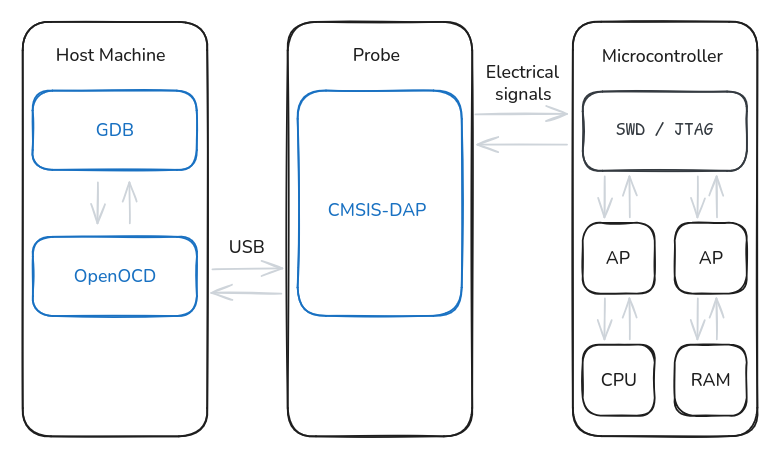
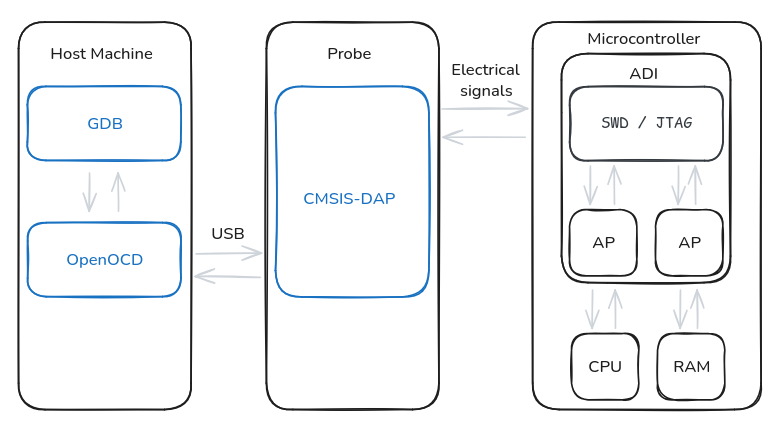
fixes Mark

diff --git a/Chapters/experiments.tex b/Chapters/experiments.tex
@@ -1,3 +1,68 @@
+\section{Metrics description}
+
+Since there are several candidates for the implementation of the probe, we will define a set of metrics to choose the best one. Our set will include both quantitative and qualitative metrics, chosen based on the goal of the project, which is to implement a solution used throughout the educational process. While the values of the quantitative metrics will come directly from the tests and measurements, for qualitative metrics each of the team members will decide on a score from 1 to 5 and the average of those will be used in further considerations.
+
+\begin{table}[!ht]
+  \def\arraystretch{1.3}
+  \begin{center}
+    \caption{Comparison Summary of Probe Implementation Candidates}
+    \label{tab:probe_comparison}
+    \begin{tabular}{|l|c|c|c|}
+      \hline
+      \textbf{Metric} & \textbf{Description} \\
+      \hline
+      \hline
+      \multicolumn{4}{|l|}{\textit{Quantitative Metrics}} \\
+      \hline
+      Price of materials & The price of the plastic or other materials used for the casing, which would fit the TKJHAT and the probe together, as well as the price of the additional microcontrollers, boards, and wires used in the design. Since tens of debugger units are required by the course, the price of each one is a significant detail. \\
+      \hline
+      Time to produce & 15 min \\
+      \hline
+      Size of addition (cm) & 5 \\
+      \hline
+      \hline
+      \hline
+      \multicolumn{4}{|l|}{\textit{Qualitative Metrics (Scores 1--5)}} \\
+      \hline
+      Maintained & 5.0 \\
+      \hline
+      Beginner-friendly & 3.3 \\
+      \hline
+      Comfort of use & 4.0 \\
+      \hline
+      \hline
+    \end{tabular}
+    \vspace{6pt}
+  \end{center}
+\end{table}
+
+\subsection{Quantitative metrics}
+
+The first metric considered is the \textbf{price of the hardware}. That is,  
+
+Next factor we will consider is the \textbf{time to produce} the probe, which includes the printing time of the case for the given probe and the time for soldering and other assembling activities.   
+
+The third quantative metric is the \textbf{physical size} of the final result. That is the size of the casing together with the TKJHAT and the probe. We will also consider the virtual size as a separate metric. It can be refered as \textbf{debug overhead} metric and it estimates the load on the CPU, memory and time consumption added by the debugger. While it might be one the most crucial metrics when working on big and complicated projects, it only takes secondary position in our research, since most of the projects at the entry level course are quite simple and compact.
+
+
+
+    Slowdown Factor: Often measured in production debugging, this is the ratio of execution time with the debugger active vs. inactive (e.g., a "10x–100x slowdown" in intensive debugging scenarios).
+
+    Memory Access Speed: The speed at which a debugger reads/writes data to the target system, crucial for embedded processors.
+
+    Breakpoint Latency: Time taken to halt execution when a breakpoint is hit. 
+
+\subsection{Qualitative metrics}
+
+Qualitative metrics play a more important role in our project. Among these is how \textbf{well-maintained} the software to be used is: how often it is updated, if at all; how many people are behind it and how reliable it is in the long run. It is important since the outcome of our work is planned to be in use for a long time, about seven years, and it is likely, that there will be new bugs found and changes made in the upstream software.
+
+One of the most crucial criteria is how \textbf{beginner-friendly} the setup and the usage of the probe is, how likely are the people, working with the embedded systems for the first time, to make a mistake, how easy it is to explain the workflow.
+
+The general \textbf{comfort of use} is another metric we will consider. The hardware setup will affect our ratings as well as the response speed. We consider speed here, in the qualitative category, as exact miliseconds are not so important to us as the general feel and the smootheness of the process.
+
+As a separate and final metric we will consider the \textbf{limitations} of each approach, which might not show in the rest of the metrics.
+
+\section{Applying the metrcis}
 
 To identify the optimal solution for the course environment, a systematic framework is established to evaluate all approaches and determine the most suitable methodology. The framework consists of both quantitative and qualitative metrics to ensure a comprehensive and accurate evaluation of the methodologies.
 

diff --git a/Chapters/implementation.tex b/Chapters/implementation.tex
@@ -35,36 +35,6 @@ A functional debugging setup requires a software stack running on top of the ope
 
 All software components, including toolchain binaries, SDK releases, and debugging middleware, were configured according to their respective official documentation and established best practices and efforts were made to harmonise the configuration parameters across both the virtual machine and containerised environments. This is to ensure that any observed differences in performance or usability could be attributed strictly to the underlying virtualisation architecture.
 %[1] https://lovelace.oulu.fi/tietokonej%C3%A4rjestelm%C3%A4t/tietokonej%C3%A4rjestelm%C3%A4t/tkj-virtual-machine-download-and-history/
-\section{Metrics description}
-
-Since there are several candidates for the implementation of the probe, we will define a set of metrics to choose the best one. Our set will include both quantitative and qualitative metrics, chosen based on the goal of the project, which is to implement a solution used throughout the educational process. While the values of the quantitative metrics will come directly from the tests and measurements, for qualitative metrics each of the team members will decide on a score from 1 to 5 and the average of those will be used in further considerations.
-
-\subsection{Quantitative metrics}
-
-The first metric considered is the \textbf{price of the hardware}. That is, the price of the plastic or other materials used for the casing, which would fit the TKJHAT and the probe together, as well as the price of the additional microcontrollers, boards, and wires used in the design. Since tens of debugger units are required by the course, the price of each one is a significant detail. 
-
-Next factor we will consider is the \textbf{time to produce} the probe, which includes the printing time of the case for the given probe and the time for soldering and other assembling activities.   
-
-The third quantative metric is the \textbf{physical size} of the final result. That is the size of the casing together with the TKJHAT and the probe. We will also consider the virtual size as a separate metric. It can be refered as \textbf{debug overhead} metric and it estimates the load on the CPU, memory and time consumption added by the debugger. While it might be one the most crucial metrics when working on big and complicated projects, it only takes secondary position in our research, since most of the projects at the entry level course are quite simple and compact.
-
-
-
-    Slowdown Factor: Often measured in production debugging, this is the ratio of execution time with the debugger active vs. inactive (e.g., a "10x–100x slowdown" in intensive debugging scenarios).
-
-    Memory Access Speed: The speed at which a debugger reads/writes data to the target system, crucial for embedded processors.
-
-    Breakpoint Latency: Time taken to halt execution when a breakpoint is hit. 
-
-\subsection{Qualitative metrics}
-
-Qualitative metrics play a more important role in our project. Among these is how \textbf{well-maintained} the software to be used is: how often it is updated, if at all; how many people are behind it and how reliable it is in the long run. It is important since the outcome of our work is planned to be in use for a long time, about seven years, and it is likely, that there will be new bugs found and changes made in the upstream software.
-
-One of the most crucial criteria is how \textbf{beginner-friendly} the setup and the usage of the probe is, how likely are the people, working with the embedded systems for the first time, to make a mistake, how easy it is to explain the workflow.
-
-The general \textbf{comfort of use} is another metric we will consider. The hardware setup will affect our ratings as well as the response speed. We consider speed here, in the qualitative category, as exact miliseconds are not so important to us as the general feel and the smootheness of the process.
-
-As a separate and final metric we will consider the \textbf{limitations} of each approach, which might not show in the rest of the metrics.
-
 
 \section{Probe implementations}
 \subsection{Second RP2040/RP2350 implementation}
@@ -107,9 +77,9 @@ To start serial monitoring inside of VS Code when Minicom fails to start, the Mi
 
 \subsection{Second core implementation \- pico-debug}
 
-The approach where one core is used to debug another one was implemented and shared by majbthrd on Github. He developed two projects: "pico-debug" for RP2040 \cite{pico_debug}, and "pico2-debug" for RP2350 boards \cite{pico2_debug}. To setup the debugging session there are ready .uf2 files provided in the repositories. Pico-debug can be placed in RAM or cache memory of the board, and each option has its own .uf2 file. We are going with a more common and easier way to use it, placing it in the RAM, so the whole cahce is availiable for the code of the program that is being debugged. To do so, we take the pico-debug-gimmecache.uf2 file from the releases page of the repository and flush it onto the board. 
+The approach where one core is used to debug another one was implemented and shared by majbthrd on Github. He developed two projects: "pico-debug" for RP2040 \cite{pico_debug}, and "pico2-debug" for RP2350 boards \cite{pico2_debug}. To setup the debugging session there are ready .uf2 files provided in the repositories. Pico-debug can be placed in RAM or cache memory of the board, and each option has its own .uf2 file. We are going with a more common and easier way to use it, placing it in the RAM, so the whole cahce is availiable for the code of the program that is being debugged. To do so, we take the pico-debug-gimmecache.uf2 file from the releases page of the repository and flush it onto the board. When the application is designed to use the full RAM the pico-debug-maxram.uf2 is used instead.
 
-Now the board shows as a CMSIS-DAP probe in the list of devices, and we can proceed to connect to it through the GDB and OpenOCD. The OpenOCD, however, has to be built by the user, since the newer versions of its Raspberry Pi's fork are not compatible with pico-debug. The detailed instructions are provided in the repository's "howto" section \cite{pico_debug}. 
+Now the board shows as a CMSIS-DAP probe in the list of devices, and we can proceed to connect to it through the GDB and OpenOCD and flush just like we did with the second Pico board. The OpenOCD, however, has to be built by the user, since the newer versions of its Raspberry Pi's fork are not compatible with pico-debug. The detailed instructions on building OpenOCD are provided in the repository's "howto" section \cite{pico_debug} and involve cloning the repository and then compiling with make command. One big advantage is that this option does not need any additional hardware and cabels. 
 
 \subsection{SEGGER J-link}
 

diff --git a/Chapters/abbreviations.tex b/Chapters/abbreviations.tex
@@ -4,7 +4,7 @@
 % are italicized. Uppercase Greek letters are upright.
 \begin{longtable}[l]{p{3cm}p{0.7\textwidth}}
 
-    CSE\footnote{Even though a symbol or an abbreviation is explained on this page, it should be written out full when appearing in the text for the first time. Remove this footnote from your thesis.} & Computer Science and Engineering\\
+    CSE & Computer Science and Engineering\\
     GUI & graphical user interface\\
     HAT & Hardware Attached on Top\\
     PLA & Polylactic Acid\\
@@ -24,22 +24,5 @@
     IoT & Internet of Things \\
     GDB & GNU debugger \\
 
-    %template stufffff
-    \\
-    \textit{N} & number of samples\\
-    \textbf{Q} & orthogonal matrix \\
-    \textit{r\textsubscript{ij}} & matrix element \\
-    \\
-    $\beta$ & shape factor \\
-    $\epsilon$\textsubscript{k} & error signal at instant k \\
-    $\Phi$\textsubscript{k} & state transition matrix at instant k \\
-    $\boldsymbol{\theta}$ & parameter vector \\
-    $\sigma$\textsuperscript{2} & variance \\
-    \\
-    $\lfloor$ $\rfloor$ & integer part \\
-    $\oplus$ & logical XOR operation \\
-    $\arg$() & argument \\
-
 \end{longtable}
 \setcounter{table}{0}
-

diff --git a/Chapters/introduction.tex b/Chapters/introduction.tex
@@ -1,10 +1,10 @@
-\section{Author's contributions and the role of Artificial Intelligence}
+\section{Thesis conext and motivation}
 
 %The structure of a thesis can vary. However, at the end of the introductory chapter, you must include a section titled \textit{Author's Contributions and the Role of Artificial Intelligence}. In this section, you should clarify your independent contributions to the thesis and explain how AI was used in its preparation, if applicable. More information can be found in Sections writing and AI.
 
-Debugging is a fundamental part of software development, but in embedded systems it introduces additional complexity due to the need to interact with external hardware. In the Computer Systems course, students are required to work with microcontrollers and low-level programming concepts, yet many struggle with setting up the required toolchains and debugging environments. As a result, debugging is often reduced to simple print-based methods, which limits visibility into program execution and slows down development.
+Debugging is a fundamental part of software development, but in embedded systems it introduces additional complexity due to the need to interact with external hardware. In the University of Oulu's Computer Systems courses (521287A Introduction to Computer Systems and 521286A Computer Systems), students learn how computer systems operate across the full stack, from software applications to underlying hardware, through hands-on development on the TKJHAT educational platform. The platform is based on the Raspberry Pi Pico W microcontroller and FreeRTOS, and is programmed using Visual Studio Code, CMake, and Cortex-Debug while interacting with sensors, displays, LEDs, and other peripherals through GPIO and I²C interfaces. Although this environment provides valuable practical experience with embedded systems, many students struggle with toolchain installation, hardware configuration, and debugging setup. As a result, debugging is often reduced to simple print-based methods. While useful for basic troubleshooting, printf debugging provides limited insight into program state, requires extensive manual instrumentation, can alter timing-sensitive behavior, and makes it difficult to inspect memory, registers, and execution flow when diagnosing more complex issues.
 
-Unlike standard desktop development, embedded debugging requires a complete pipeline consisting of a compiler toolchain, a debugger, a communication interface, and a hardware probe. These components must be configured correctly and must work together reliably. Small configuration errors or differences between systems can lead to failures that are difficult for beginners to diagnose. This creates a significant barrier in an educational setting, where consistency and ease of use are critical.
+Unlike standard desktop development, embedded debugging requires a complete pipeline consisting of a compiler toolchain, a debugger, a communication interface, and a hardware probe. The pipeline can be seen in \figref{fig:general_structure}. These components must be configured correctly and must work together reliably. Small configuration errors or differences between systems can lead to failures that are difficult for beginners to diagnose. This creates a significant barrier in an educational setting, where consistency and ease of use are critical.
 
 This thesis focuses on the design and implementation of a debugging platform for the RP2040 and RP2350 microcontrollers. The goal is to provide a unified and reproducible environment that simplifies setup and reduces configuration-related issues. Two approaches for environment delivery are considered: containerisation and virtual machines. Both approaches aim to package the required software stack (including compiler toolchains, debugging tools, and development interfaces) into a consistent system that can be deployed across different host machines.
 
@@ -12,4 +12,12 @@ In addition to the software environment, multiple debugging methods are evaluate
 
 The platform is designed for use in the University of Oulu’s Computer Systems course, where it must support both individual use and large-scale deployment. To determine the most suitable solution, a set of quantitative and qualitative metrics is defined. Quantitative metrics include factors such as cost and performance, while qualitative metrics focus on usability, maintenance, and beginner-friendliness.
 
+The final implementation includes the docker container with the software environment and the physical enclosure for the tools used in the course to facilitate students' tasks. The links to the design and implementation documents can be found in Appendix 1 of this thesis. TODO put links in appendix
+
 The structure of this thesis is as follows. Chapter 2 presents the background information required to understand the debugging pipeline and the technologies involved. Chapter 3 describes the implementation of the platform. Chapter 4 compares the evaluated approaches, and Chapter 5 presents the conclusions.
+
+\section{Author's contributions and the role of Artificial Intelligence}
+
+TODO: personal contributions
+
+During the production of this document and the related research the Artificial Intelligence tools were utilized to assist with exploring new domains of knowledge, structuring the ideas, finding the sources and refining the manually written text.

diff --git a/Chapters/relatedwork.tex b/Chapters/relatedwork.tex
@@ -4,6 +4,8 @@ In this thesis we will focus on the computing platforms developed by Raspberry P
 
 The Pico family is the group of Raspberry Pi microcontroller boards. It started in 2021 with Pico 1 series, which is built around the RP2040 silicon platform and includes 264KB on-chip RAM, 2MB on-board flash and Dual-core Arm Cortex-M0+ running at 133MHz frequency \cite{raspberry_pico_1}. The first series includes Pico, Pico H, Pico W, and Pico WH boards, where H stands for the presoldered headers, and W for the present wireless connectivity option. In 2024 the family got an update with the second series, including Pico 2 and Pico 2 W boards. New microcontrollers have twice the amount of RAM and flash of the first series, and the ability for the users to choose between the dual Arm Cortex-M33 and the dual RISC-V Hazard3 architechtures both running at 150MHz \cite{raspberry_pico_2}. All Pico family boards are programmable in C and MicroPython.
 
+Especially Pico family boards became increasingly popular in the education. David Loker in "Embedded Systems using the Raspberry Pi Pico" \cite{loker} explores in detail the course setup and possible educational projects with Pico boards. Through a questionnaire he shows that students also welcome the opportunity to use Pico during their studies. A group from Hellenic University got similar results in their work - "Teaching Embedded Systems and IoT at the University using MicroPython and Raspberry Pi Pico", where they presented a set of lessons built around Pico \cite{doropoulou}. University of Oulu has several courses where the Pico boards are used. We will take a closer look at the environment set up for the Embedded System course, which we will work with, in the section 2.5 below.
+
 \section{Debugging theory}
 
 The debugging is the integral part of the software development process. Its purpose is to ensure proper functioning and the performance of the software. There are different aproaches to debugging, with the simplest one being just printing the program values to the output terminal. In this thesis however, we will focus on the automated debugging with the extended control over the program's execution, which allows the programmer to use the break points, step one line at a time through the code, and monitor the values of the registers, variables, and expressions throughout the process.
@@ -83,9 +85,9 @@ Whilst alternatives like pyOCD and EDBG were considered, they were rejected, as 
 
 \subsection{Probe}
 
-The next component in the pipeline is the probe. It serves as the translator between the digital commands - USB packets from OpenOCD (or another GDB server), and the electrical signals, which are then sent over the wires connected to the pins of the debugging port of the microcontroller board. There are protocols to standardize this communication, and one of them is CMSIS-DAP - an open standard described by Arm \cite{cmsis_dap}. It stands for the Common Microcontroller Software Interface Standard - Debug Access Port. Additionally to the protocol, it provides the template implementation of the concept \cite{cmsis_dap}. Its illustraion can be seen in \figref{fig:cmsis_dap_interface}. DAPLink is another implementaion of CMSIS-DAP. Moreover, there are proprietary protocols and their implementations, such as ST-Link by STMicroelectronics and J-Link by Segger \cite{zephyr_probes}.
+The next component in the pipeline is the probe. It serves as the translator between the digital commands - USB packets from OpenOCD (or another GDB server), and the electrical signals, which are then sent over the wires connected to the pins of the debugging port of the microcontroller board. There are protocols to standardize this communication, and one of them is CMSIS-DAP - an open standard described by Arm \cite{cmsis_dap}. It stands for the Common Microcontroller Software Interface Standard - Debug Access Port. Additionally to the protocol, it provides the template implementation of the concept \cite{cmsis_dap}. Its illustraion can be seen in \figref{fig:cmsis_dap_interface}. DAPLink is another implementaion of CMSIS-DAP. Moreover, there are proprietary protocols and their implementations, such as ST-Link by STMicroelectronics and J-Link by Segger \cite{zephyr_probes}, and free and open implementations, such as Free-DAP \cite{free_dap}.
 
-The hardware part of the probe can be implemented in two major ways. It can be either a separate board, or a second microcontroller integrated into the board, which is being debugged \cite{zephyr_probes}. To communicate with the host machine, the probe is connected to it via USB, IP network, or other means \cite{zephyr_probes}. 
+The hardware part of the probe can be implemented in two major ways. It can be either a separate board, or a second microcontroller integrated into the board, which is being debugged \cite{zephyr_probes}. In this work we will implement, test, and compare these two approaches. To communicate with the host machine, the probe is connected to it via USB, IP network, or other means \cite{zephyr_probes}. 
 
 \begin{figure}[ht]
     \begin{center}
@@ -110,7 +112,7 @@ Arm Debug Interface (ADI) architecture provides an access to the debug component
 
 \subsection{SWD}
 
-Serial Wire Debug (SWD) is the protocol used for Serial Wire - Debug Port (SW-DP) implementation of the DP. It is a serial, packet-based interface utilizing two pins: one for the bidirectional data connection, and the other one is for the clock, to synchronize the communication \cite{adi}. The operation on the wire has three main phases: packet request from the probe, acknowledgement response from the ADI, and the optional data transfer, either from the probe to ADI or vice versa \cite{adi}. Since all the communication happens on one line, there are turnaround periods between the phases, when one party has released the data line already, but the other party didn't take the control over it yet. It prevents the conflicts and during these periods the state of the line is undefined \cite{adi}.
+Serial Wire Debug (SWD) is the protocol used for Serial Wire - Debug Port (SW-DP) implementation of the DP. There is another option for that: JTAG, which is described in the next section. It is a serial, packet-based interface utilizing two pins: one for the bidirectional data connection, and the other one is for the clock, to synchronize the communication \cite{adi}. The operation on the wire has three main phases: packet request from the probe, acknowledgement response from the ADI, and the optional data transfer, either from the probe to ADI or vice versa \cite{adi}. Since all the communication happens on one line, there are turnaround periods between the phases, when one party has released the data line already, but the other party didn't take the control over it yet. It prevents the conflicts and during these periods the state of the line is undefined \cite{adi}.
 
 The frame sent over the data line from the probe during the request phase of SWD is 8 bits long and has the information about the address of the register being accessed and whether it is a read or a write operation \cite{adi}. The acknowledgement frame is only 3 bits long: one per OK, WAIT, and FAULT statuses, while the data frame is 32 bits long \cite{adi}.
 
@@ -194,7 +196,7 @@ After the Pico-to-Pico connections are properly establised, and the debugger pic
 
 \subsection{second core debugger}
 
-RP2040 chip has two Arm cores and provides an ability to control the SWD interface pins of both Core 0 and Core 1 from inside the chip \cite{raspberry_rp2040}. It means that we can manipulate the debug process of one core with the software running on the second core. Therefore, this approach eliminates the need for the external hardware. Its implementation involves a dedicated register - DBGFORCE, in the SYSCFG block of registers, and it has 8 bits - 4 bits per core, to control the debugging \cite{raspberry_rp2040}. The bits include:
+RP2040 chip has two Arm cores and provides an ability to control the SWD interface pins of both Core 0 and Core 1 from inside the chip \cite{raspberry_rp2040}. It means that we can manipulate the debug process of one core with the software running on the second core. Therefore, this approach eliminates the need for the external hardware, but disallows us to use both cores for the application. Its implementation involves a dedicated register - DBGFORCE, in the SYSCFG block of registers, and it has 8 bits - 4 bits per core, to control the debugging \cite{raspberry_rp2040}. The bits include:
 
 \begin{itemize}
     \setlength\itemsep{0pt}
@@ -222,6 +224,8 @@ RP2350 chip has a more complicated debug topology depicted in \figref{fig:rp2350
     \caption{RP2350 debug topology \cite{raspberry_rp2350}.}
     \label{fig:rp2350_debug}
 \end{figure}
+ 
+For both chips the implementation is present (\cite{pico_debug} and \cite{pico2_debug} respectively) and will be looked at closer in the Implementation part of this thesis.
 
 \subsection{Black Magic Probe}
 